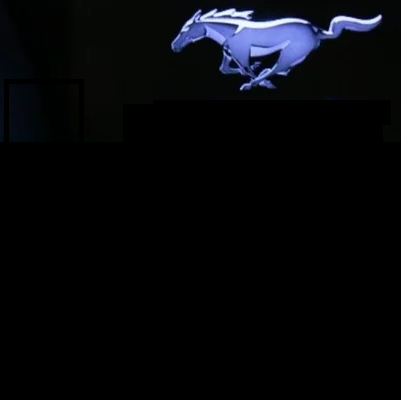
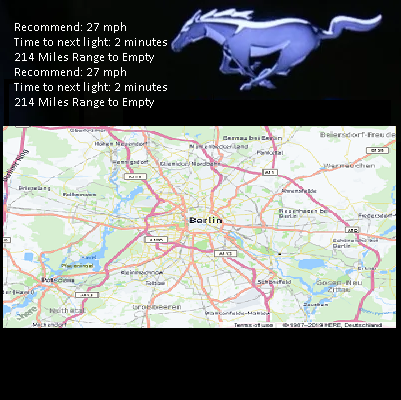
Hackathon demo

diff --git a/UiInDash.h b/UiInDash.h
@@ -6,6 +6,7 @@
 #define UiInDash_h
 
 #include <iostream>
+#include <string>
 #include <memory>
 #include <FL/Fl.H>
 #include <FL/Fl_Window.H>
@@ -13,33 +14,97 @@
 #include <FL/fl_draw.H>
 #include <FL/Fl_PNG_Image.H>
 #include <FL/Fl_Progress.H>
+#include <FL/Fl_Output.H>
 
 class UiInDash
 :	public Fl_Box
 {	UiInDash(const UiInDash&) = delete;
 	void operator=(const UiInDash&) = delete;
 	std::unique_ptr<Fl_PNG_Image> background; 	
-	std::unique_ptr<Fl_Progress> progress; 	
+	std::unique_ptr<Fl_PNG_Image> mapImage; 
+	std::unique_ptr<Fl_Progress> meter;
+	std::unique_ptr<Fl_Box> mapRoute;
+	float discharge;
+	unsigned bestMph;
+	unsigned timeToLight;
+	unsigned range;
+	const double delay = 0.25;
+	std::string percent;
+	std::unique_ptr<Fl_Output> bestMphLabel;
+	std::unique_ptr<Fl_Output> timeToLightLabel;
+	std::unique_ptr<Fl_Output> rangeLabel;
 	void DrawBackground()
 	{	const Fl_Color backgroundColor = FL_BLUE;
 		color(backgroundColor);
 	}
 	void LoadImage()
 	{	background = std::make_unique<Fl_PNG_Image>("../mustang.png");
-		image(background.get());  
+		image(background.get()); 
+		mapRoute = std::make_unique<Fl_Box>(100,100,200,200);
+		mapImage = std::make_unique<Fl_PNG_Image>("../berlin.png");
+	//	mapImage.resize(200,200);
+		mapRoute.get()->image(mapImage.get()); 
 	}
 	void LoadButtons()
 	{}
+	void LoadLabels()
+	{	bestMphLabel = std::make_unique<Fl_Output>(200,250,100,400,"bestMphLabel");
+		timeToLightLabel = std::make_unique<Fl_Output>(200,250,100,40,"timeToLightLabel");
+		rangeLabel = std::make_unique<Fl_Output>(200,350,100,40,"rangeLabel");
+		bestMphLabel->textsize(24);
+		bestMphLabel->color(FL_WHITE);
+	}
 	void LoadMeter()
 	{//	Fl_Window *w = (Fl_Window*)this;           // access parent window
-	//	w->begin();                                // add progress bar to it..
-		progress = std::make_unique<Fl_Progress>(10,100,50,300);
-		progress->minimum(0);                      // set progress range to be 0.0 ~ 1.0
-		progress->maximum(1);
-		progress->color(0x88888800);               // background color
-		progress->selection_color(0x4444ff00);     // progress bar color
-		progress->labelcolor(FL_WHITE);            // percent text color
+	//	w->begin();                                // add meter bar to it..
+		meter = std::make_unique<Fl_Progress>(10,350,400,50);
+		meter->minimum(0);                      // set meter range to be 0.0 ~ 1.0
+		meter->maximum(1);
+		meter->color(0x88888800);               // background color
+		meter->selection_color(0x4444ff00);     // meter bar color
+		meter->labelcolor(FL_WHITE);            // percent text color
 	//	w->end();              
+	}
+	void BumpMeter()
+	{	float r = (float) rand();
+		r /= RAND_MAX;
+		discharge = discharge/2 + r/2;
+		if(r>0.5)
+		{	meter->selection_color(FL_RED); 
+		}
+		else
+		{	meter->selection_color(FL_GREEN);
+		} 
+        meter->value(discharge);
+    }
+	void BumpLabel()
+	{	
+#if 0
+float r = (float) rand();
+		r /= RAND_MAX;
+		r /= 10;
+		range = 200 + r;
+		
+        meter->value(r);
+#endif
+    }
+	static void MeterCallback(void* userdata)
+	{	UiInDash* p = (UiInDash*)userdata;
+		if(!p)
+		{	return;
+		}
+		p->BumpMeter();
+		p->redraw();
+		Fl::repeat_timeout(p->delay,MeterCallback,userdata);
+	}
+	static void LabelCallback(void* userdata)
+	{	UiInDash* p = (UiInDash*)userdata;
+		if(!p)
+		{	return;
+		}
+		p->BumpLabel();
+		p->redraw();
+		Fl::repeat_timeout(p->delay*10,LabelCallback,userdata);
 	}
 public:
 	std::ostream& Print(std::ostream& os) const;
@@ -47,10 +112,18 @@ public:
 	{}
 	UiInDash(int dx,int dy,const char* caption)
 	:	Fl_Box(0,0,dx,dy,caption)
+	,	discharge(0.5)
+	,	bestMph(0)
+	,	timeToLight(0)
+	,	range(0)
 	{	DrawBackground();
 		LoadImage();
 		LoadButtons();
-		LoadMeter();	
+//		LoadLabels();
+		LoadMeter();
+
+		Fl::add_timeout(delay,MeterCallback,(void*)this);	
+		Fl::add_timeout(delay,LabelCallback,(void*)this);	
 	}
 	bool operator!() const
 	{	return true;
